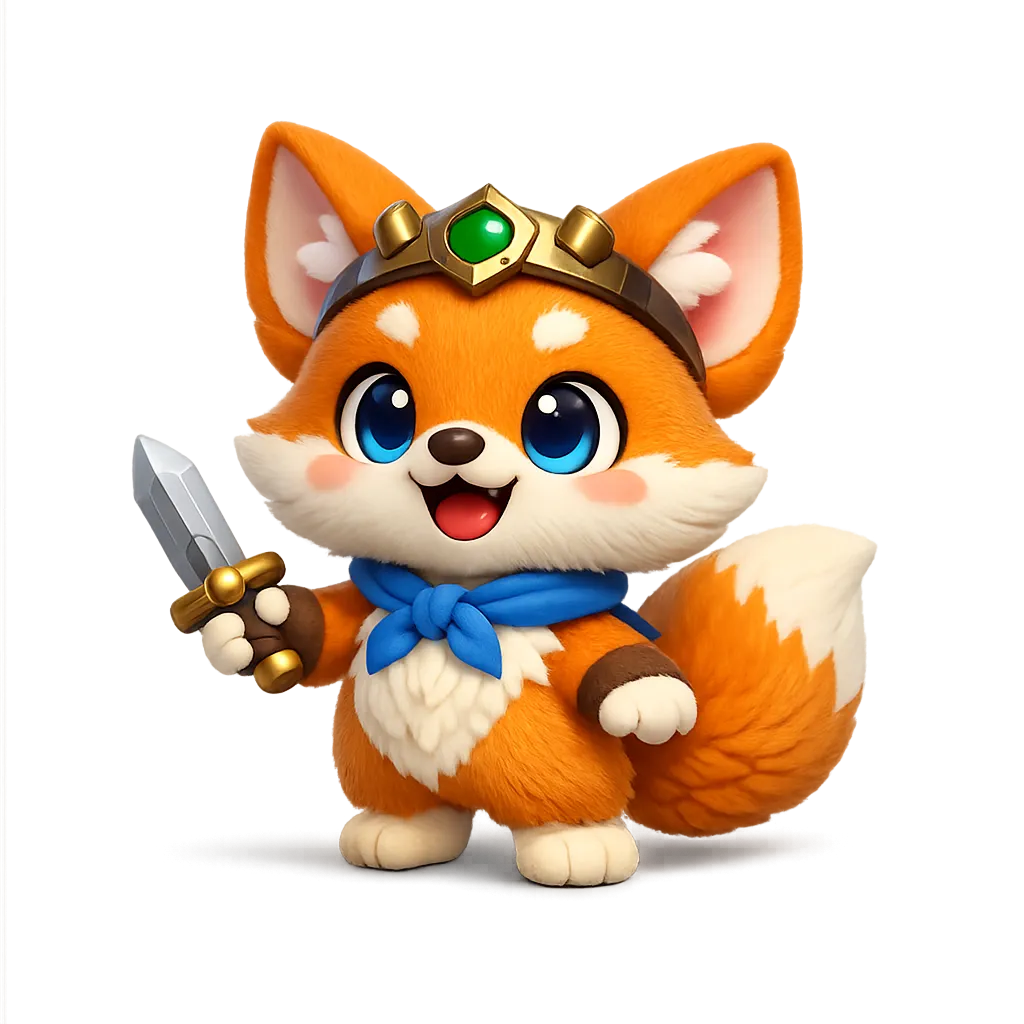
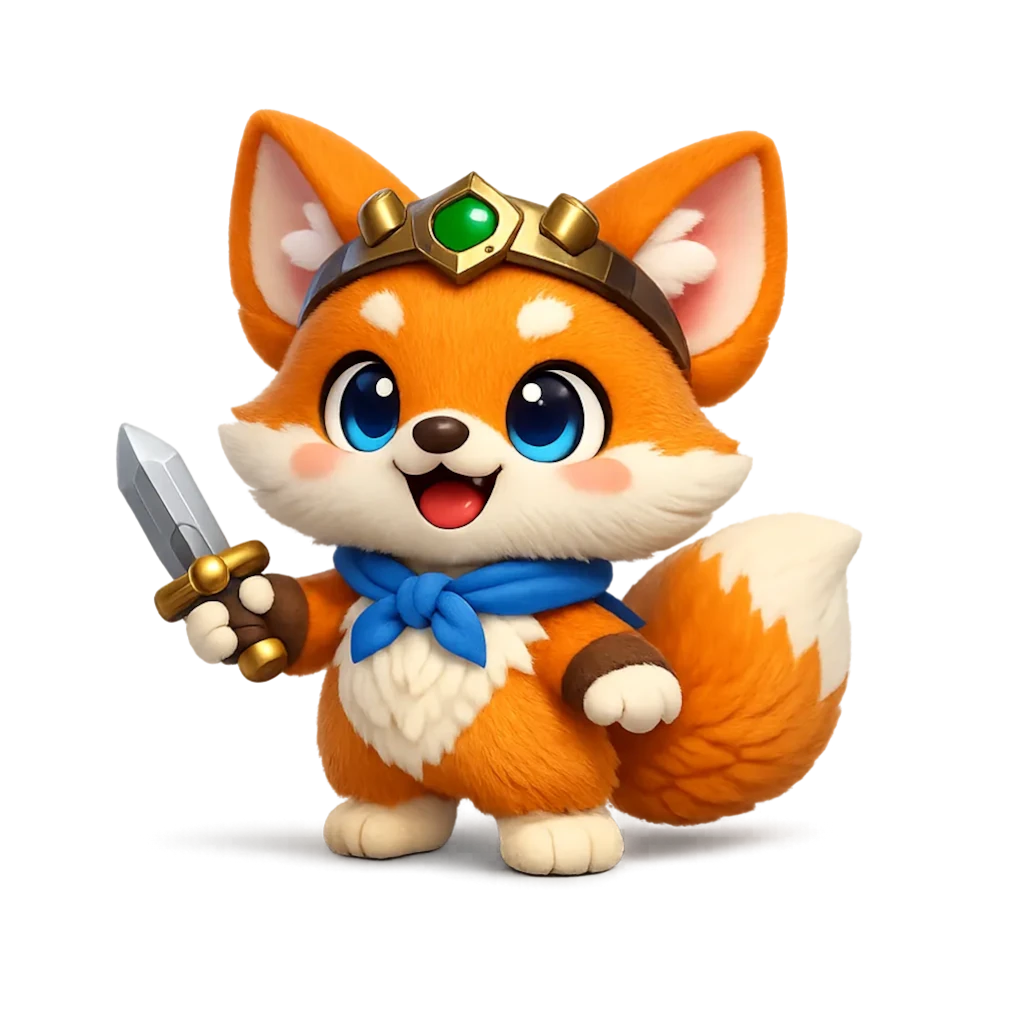
update posisi label

Changed region(s): [[0.0938, 0.0938, 0.875, 0.875]]

diff --git a/src/client/styles.css b/src/client/styles.css
@@ -2755,8 +2755,8 @@ body {
   flex: 0 0 auto;
   grid-template-columns: minmax(0, 1fr) minmax(0, 1fr);
   gap: 10px;
-  margin: -78px 6px 122px;
-  transform: translateY(-12px);
+  margin: -78px 6px 152px;
+  transform: translateY(-24px);
 }
 
 .student-compact-actions .game-chapter-panel,